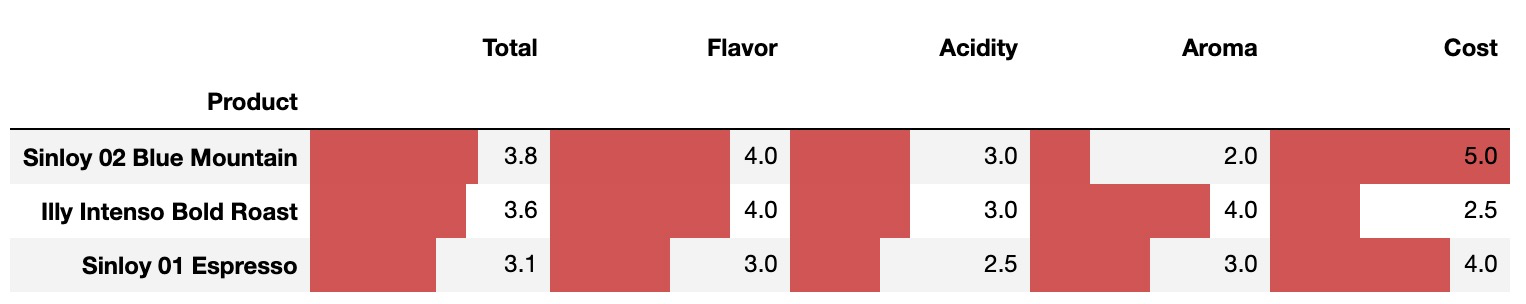
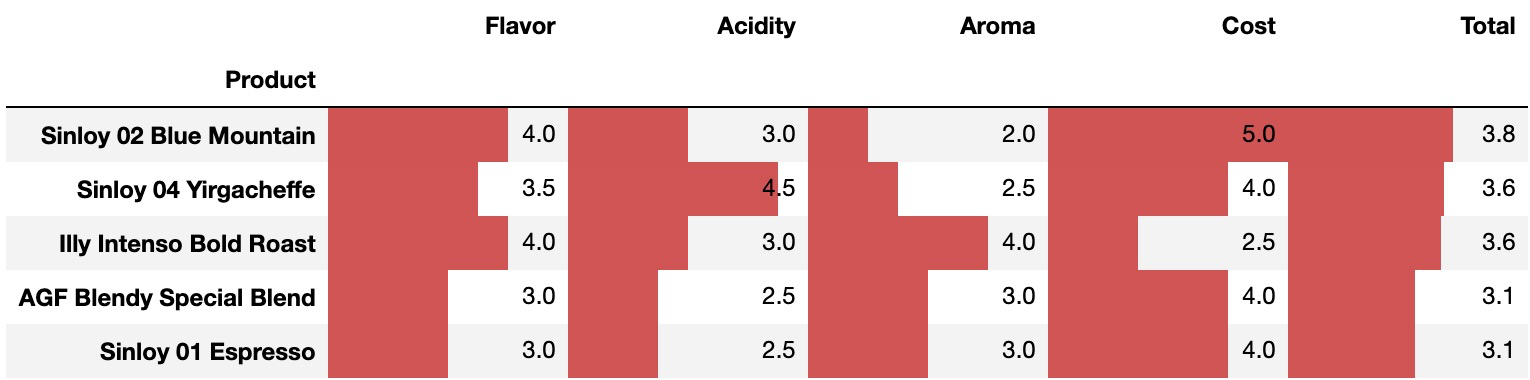
update posts

diff --git a/_posts/2021-11-11-coffee-ladder.md b/_posts/2021-11-11-coffee-ladder.md
@@ -21,22 +21,30 @@ I have been consuming drip coffee bags regularly for two years and I would like 
   - **Flavor: 3.0**. Full bitter flavor without variety. A pure adrenaline booster without too much to enjoy.
   - **Acidity: 2.5**. Bland bitterness followed by a weird combination of sour and causticness.
   - **Aroma: 3.0**. Pleasant pungent smell, but not as enduring as espresso should normally do.
-  - **Cost-effectiveness: 4.0**. The budget version of illy bold roast, but the quality fails to catch up.
+  - **Cost-effectiveness: 4.0**. Costs 1.7 RMB per bag on a regular day. The budget version of illy bold roast, but the quality fails to catch up.
 - **Sinloy 02 Blue Mountain: 3.8**
   - **Flavor: 4.0**. Standard blue mountain flavor. Mild and mellow, welcoming and pleasurable. Never a wrong choice on any day.
   - **Acidity: 3.0**. Mild acidity with almost no bitterness. The layers of aftertaste is limited.
   - **Aroma: 2.0**. Not much aroma to expect other than some weak nutty smell.
   - **Cost-effectiveness: 5.0**. Can't ask for anything better for just under 1.7 RMB per bag. On _double-11_ it costs 1.2 RMB per bag. Insane value.
+- **Sinloy 04 Yirgacheffe: 3.5**
+  - **Flavor: 3.5**. Sweet and sour. The sourness feels like being shelved for years though.
+  - **Acidity: 4.5**. Sharp sour aftertaste, with lingering lemon and mint flavor. The best part of the experience.
+  - **Aroma: 2.5**. The light citrus smell checks out with its flavor but vanishes quickly.
+  - **Cost-effectiveness: 4.0**. Lives up to expectation as the most expensive brew among the Sinloy lineup. However, the beans are not well-grained so that the drip becomes harder as water cools down.
 - **Illy Intenso Bold Roast: 3.6**
   - **Flavor: 4.0**. As the name suggests, it's has a strong, bitter flavor. The harsh taste provides boost on a day when I'm ready to kick some ass.
   - **Acidity: 3.0**. Smoky aftertaste makes every sip a rocket-ride experience.
   - **Aroma: 4.0**. An unforgettable aroma. The enduring carbony smell checks out with its flavor.
   - **Cost-effectiveness: 2.5**. I was a frequent buyer when it was around 5 RMB per bag. But for over 7.1 RMB per bag now, I don't feel like this brew could justify its price.
+- **AGF Blendy Special Blend: 3.1**
+  - **Flavor: 3.0**. Very mild bitter flavor. Tuned towards a more general public so that it doesn't taste like a bold roast for me. Honestly, it's a disappointment.
+  - **Acidity: 2.5**. Not much aftertaste to expect other than some strange, artificial sweetness.
+  - **Aroma: 3.0**. The vanilla- and syrup-like smell vanishes within one-minute mark.
+  - **Cost-effectiveness: 4.0**. This product is not tuned for me. But at over 2 RMB per bag, the fine-grained coffee actually shows some quality.  
 
 ## To be reviewed
 
 - Sinloy 03 Cherry Blend
-- Sinloy 04 Yirgacheffe
 - Sinloy 05 Hambela
-- AGF Blendy Special Blend
 

diff --git a/_posts/2021-09-18-ds-digest-5.md b/_posts/2021-09-18-ds-digest-5.md
@@ -21,3 +21,4 @@ Meituan has a [nice write-up](https://tech.meituan.com/2020/10/15/mt-aiops-horae
 ## Feature store
 
 The idiom `feature` is popular among data scientists, but the idea of [feature store](https://www.tecton.ai/blog/what-is-a-feature-store/) is even more important in parallel systems, especially in those with heterogeneous database. [Feast](https://www.datarevenue.com/en-blog/feature-store-feast-vs-hopsworks) is a standalone, open source solution but it still has a long journey ahead.
+
